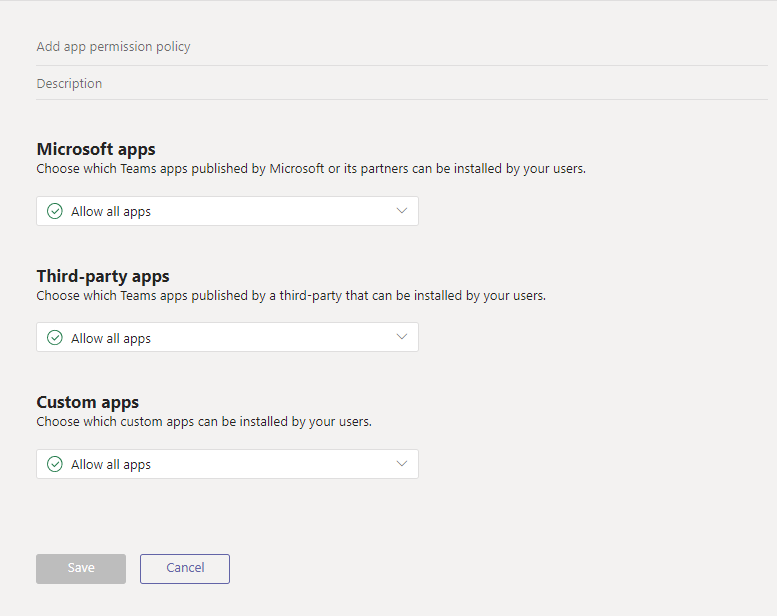
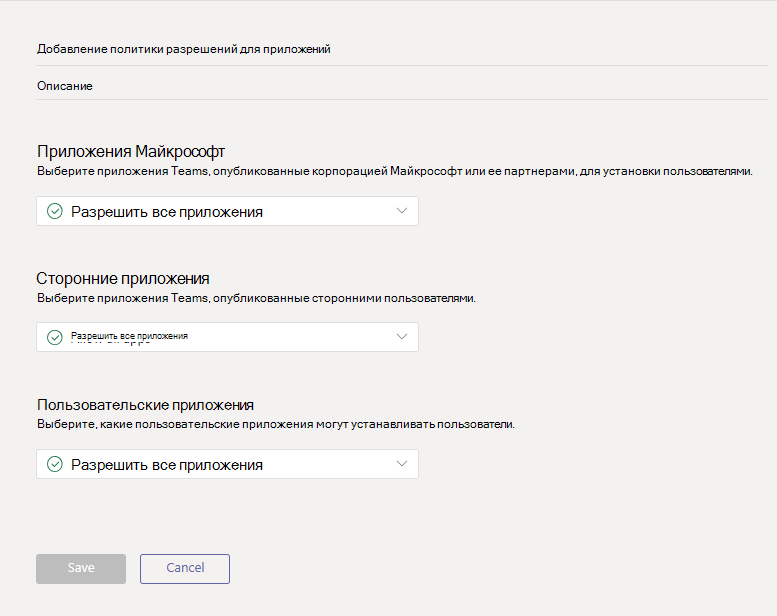
commit translated contents

diff --git a/Teams/class-insights.md b/Teams/class-insights.md
@@ -1,5 +1,5 @@
 ---
-title: Руководство для ИТ-администраторов по Insights в Teams для образования
+title: Руководство для ИТ-администраторов по Insights в Microsoft Teams для образования
 author: MicrosoftHeidi
 ms.author: heidip
 manager: serdars
@@ -16,109 +16,211 @@ ms.collection:
 - M365-collaboration
 appliesto:
 - Microsoft Teams
-ms.openlocfilehash: b63ea1a1a09a55d9a51fb2a110c024960f23f6f4
-ms.sourcegitcommit: beaaee10019f4eda746f348888a4a3c2aaa6f196
+ms.openlocfilehash: cd60e20d4218c9deaca84974b890280f942fe1be
+ms.sourcegitcommit: 086d27c9381fc1f1c6523d4c48dea275dea917b7
 ms.translationtype: HT
 ms.contentlocale: ru-RU
-ms.lasthandoff: 10/30/2020
-ms.locfileid: "48803527"
+ms.lasthandoff: 01/26/2021
+ms.locfileid: "49986395"
 ---
-# <a name="it-admin-guide-to-insights-in-teams-for-education"></a>Руководство для ИТ-администраторов по Insights в Teams для образования
+# <a name="it-admin-guide-to-education-insights-in-microsoft-teams"></a>Руководство для ИТ-администраторов по Insights в Microsoft Teams для образования
 
-Благодаря Insights в Microsoft Teams для образования преподаватели и руководители могут получать доступ к данным аналитики о вовлеченности учащихся в цифровое пространство, о связанной с заданиями рабочей нагрузке, об оценках, коммуникации и т. д. В основе Insights лежат этические принципы, где на первом месте находятся преподаватели и учащиеся, соблюдаются стандарты конфиденциальности и обеспечивается постоянное соблюдение требований для вашего учебного заведения.
+В этом документе описаны действия, необходимые, чтобы начать работу с данными аналитики Insights для образования в Microsoft Teams и помочь преподавателям и руководителям учебных заведений освоить платформу и пользоваться приложением.
 
-Средство Insights активировано в планах Office 365 для образования A1, A3 и A5.
+## <a name="overview"></a>Обзор
+**Каждый учащийся обладает неповторимым набором знаний, навыков и голосом.**<br/>
+**Средство Insights поможет вам лучше узнать учащихся и реагировать на их нужды.**
+
+Insights анализирует прогресс и действия учащихся на занятиях в реальном времени. Благодаря наглядным иллюстрациям персонал школы сможет легко и удобно наблюдать за успехами учащихся. Для преподавателей и лидеров образовательных учреждений доступны актуальные и надежные данные, помогающие принимать обоснованные решения о командах класса. Руководствуясь этими данными, преподаватели получат все необходимые сведения, чтобы отвечать на эмоциональные, социальные и образовательные нужды учеников.  
+
+Зная о том, какие стратегии подходят для работы с учащимися лучше всего, сотрудники школы смогут направить свою энергию на достижение оптимальных результатов. Insights предоставляет своевременные данные, позволяя преподавателям и лидерам образовательных учреждений сосредоточить энергию и силы на улучшении среды обучения, росте успехов и благополучия учащихся. 
+
+## <a name="who-uses-insights"></a>Кто пользуется Insights?
+
+### <a name="educators"></a>Преподаватели
+Преподаватель — это любое лицо, руководящее командой класса. К преподавателям относятся учителя, лекторы и профессора. 
+
+Преподаватели получают доступ к Insights на уровне класса. Они видят действия учащихся в своем классе, но не могут просматривать данные других классов. Insights помогает преподавателям лучше понять своих учеников и помогать им.
+
+Для работы с Insights нет предварительных требований, и преподавателям нужно всего лишь добавить Insights на левую панель приложений для каждого класса в Teams.
+
+Преподаватели идентифицируются по соответствующим лицензиям. Чтобы просматривать данные в Insights, необходимо обладать лицензией преподавателя и быть владельцем команды класса.
+
+### <a name="education-leaders"></a>Лидеры образовательных учреждений
+К лидерам образовательных учреждений относятся все роли в учреждении, чьи обязанности требуют доступа к организационному ракурсу для просмотра уровня вовлеченности учащихся, их успехов, самочувствия и т. д. Преподаватели также могут быть лидерами образовательных учреждений — например, если они являются руководителями учебного направления и владеют командой класса, то для работы им также требуются дополнительные ракурсы. 
+
+К лидерам образовательных учреждений могут относиться научные сотрудники, главы отделений, руководители округа, школьные директора, старшие преподаватели, консультанты, руководители направлений, директора программ, социальные работники и психологи.
+
+Лидеры образовательных учреждений имеют доступ к организационному ракурсу в зависимости от разрешений, выданных ИТ-администратором. Например, администраторы школьного округа могут просматривать все школы, к которым у них есть доступ. В то же время директору или школьному инспектору доступны только отметки и классы их собственной школы. 
+
+Если инспектор также преподает, то он считается одновременно преподавателем и лидером образовательного учреждения и имеет доступ к обоим ракурсам Insights (для преподавателей и лидеров образовательных учреждений). Так Insights помогает лидерам образовательных учреждений поддерживать работу преподавателей и учащихся. На организационном уровне ИТ-администратору нужно подключить систему данных об учащихся и назначить каждой роли разрешения на доступ к соответствующим школам и отделениям.
+
+Лидеры образовательных учреждений имеют преподавательские лицензии, и у них должны быть *явные разрешения* от глобального ИТ-администратора на просмотр отчетов Insights своей организации.
+
 
 > [!NOTE]
-> Руководство по использованию Insights для преподавателей представлено здесь: [Руководство для преподавателей по Insights в Microsoft Teams](https://support.microsoft.com/article/27b56255-90c0-47aa-bac3-1c9f50157181).
-
-## <a name="use-insights"></a>Использование Insights
-
-### <a name="user-types"></a>Типы пользователей
-- **Учащиеся** идентифицируются по их лицензиям и  _не имеют доступа_ к вкладке Insights (даже если являются владельцами команды). 
-- **Преподаватели** идентифицируются по соответствующим лицензиям. Чтобы добавить и просматривать данные на вкладке "Insights", необходимо обладать лицензией преподавателя и быть владельцем группы класса. 
-- **Руководители** также идентифицируются по лицензии преподавателя, но при этом они должны получить явные разрешения от глобального ИТ-администратора на просмотр отчетов в приложении Insights.
-- У гостевых учетных записей _нет_ доступа к Insights.
-
-### <a name="entry-points"></a>Точки входа
-Преподаватели и руководители имеют различные точки входа, где они могут обнаруживать и использовать Insights.
-
-**Преподаватели** могут использовать следующие две точки входа:
-- [Вкладки](https://support.microsoft.com/article/27b56255-90c0-47aa-bac3-1c9f50157181) — аналитика для каждого принадлежащего им класса доступна на вкладке, добавляемой из верхнего меню навигации. Средство Insights отображает данные об активности из всех каналов команды класса, но его можно добавить в виде вкладки только в общедоступные каналы. На вкладке отображаются сведения о действиях всех участников команды класса, не являющихся ее владельцами (включая преподавателей, не являющихся владельцами команды).
-- [Личное приложение](https://support.microsoft.com/article/747fd8d9-00b0-43e6-bacc-a1bf030b1867) — обзор всех активных классов доступен на панели приложения Teams слева.
-
-**Руководители** могут использовать Insights в качестве [личного приложения](https://support.microsoft.com/article/8738d1b1-4e1c-49bd-9e8d-b5292474c347).
-
-### <a name="manage-setup-policy"></a>Управление политикой настройки
-Администратор может использовать [политику настройки приложения](https://docs.microsoft.com/microsoftteams/teams-app-setup-policies), чтобы по умолчанию установить Insights для преподавателей и руководителей при запуске ими приложения Teams.
-Используя эту политику, вы можете настроить Teams на отображение средства Insights и закрепить его на панели приложений.
-
-> [!TIP]
-> Сведения о политиках Teams и пакетах политик для образования см. в статье [Политики и пакеты политик Teams для образования](https://docs.microsoft.com/microsoftteams/policy-packages-edu).
+> **Об учащихся:**
+>
+> Insights собирает данные о действиях учащихся в Teams.
+>
+> Учащиеся — это члены команды класса в Teams. Они имеют соответствующую лицензию и  **не обладают доступом** к приложению или вкладке Insights (даже если они являются владельцами команды).
+>
+> Гости *не могут* считаться учащимися. 
 
 
 
-## <a name="compliance"></a>Соответствие требованиям
+## <a name="where-do-users-find-insights"></a>Как пользователям получить доступ к Insights?
+Преподаватели и лидеры образовательных учреждений могут получить доступ к Insights различными способами. 
 
-Insights отвечает самым строгим требованиям отрасли и классифицируется как служба уровня C на платформе соответствия требованиям Office 365.
+### <a name="educators"></a>Преподаватели
+Преподаватели могут воспользоваться следующими двумя способами:
+
+*   [Личное приложение](https://support.microsoft.com/office/747fd8d9-00b0-43e6-bacc-a1bf030b1867) — обзор всех активных классов доступен на левой панели приложений Teams. Возможна детализация до данных класса.
+*   [Вкладки](https://support.microsoft.com/office/1386d1b4-3641-4a23-9b9c-0c6c774c2b6c) — данные Insights для конкретных классов, которыми владеют преподаватели, доступны на вкладке в верхнем навигационном меню команды класса. Эта вкладка дает преподавателю прямой доступ к необходимым данным для просмотра в контексте, когда преподаватель находится в этом классе в Teams. 
+
+Средство Insights отображает данные об активности из всех каналов команды класса, но его можно добавить в виде вкладки только в общедоступные каналы. На вкладке отображаются сведения о действиях всех участников команды класса, не являющихся ее владельцами (включая преподавателей, не являющихся владельцами команды класса).
+
+В обоих ракурсах преподаватель обладает доступом к данным класса. В персональном приложении преподаватель должен выполнить детализацию до уровня класса, а затем получить непосредственный доступ к данным класса на вкладке.
+
+Если преподаватель является владельцем команды класса, то средство Insights на уровне класса доступно без вмешательства ИТ-администратора.
+
+### <a name="education-leaders"></a>Лидеры образовательных учреждений
+Лидеры образовательных учреждений могут пользоваться Insights в качестве персонального приложения, доступного на левой панели приложений Teams.
+
+На организационном уровне ИТ-администратору нужно подключить систему данных об учащихся и назначить каждой роли разрешения на доступ к соответствующим школам и отделениям.
+
+Например, директор видит только классы в собственной школе, а руководитель отделения — только классы в своем отделении. Сведения об учащихся собираются на уровне класса, отделения, школы и округа, и мы предоставляем аналитические данные на каждом из этих уровней (в зависимости от разрешений конкретного пользователя). Как преподаватели, так и лидеры образовательных учреждений могут увеличить масштаб и просмотреть данные отдельных учащихся.
+
+**Добавление приложения Insights в Teams:**
+* Щелкните “**…**” на панели приложений.
+* Найдите и выберите **Insights**.
+* Откроется экран с описанием. Нажмите **Добавить**.
+
+:::image type="content" source="media/insights-add-personal-app.png" alt-text="Добавление Insights в Teams":::
+
+* Щелкните правой кнопкой мыши значок Insights и нажмите **Закрепить**.
+
+:::image type="content" source="media/insights-pin-app.png" alt-text="Закрепление приложения Insights":::
+
+## <a name="when-is-insights-used"></a>Когда используется Insights? 
+Средство Insights помогает ученикам и преподавателям **в процессе учебы**. Благодаря отслеживанию показателей по нескольким категориям в реальном времени Insights поддерживает непрерывный цикл определения, анализа, обсуждения и принятия решений в школьных сообществах.
+*   **Определяйте**, как и когда учащиеся работают с преподавателями, материалами курса и сверстниками и выполняют задания. 
+*   **Анализируйте**, как входные данные помогают учащимся добиться успеха, выявляйте области роста и слабые места, требующие вмешательства.
+*   **Обсуждайте** полученные данные с учащимися и работниками школы, чтобы построить надежные отношения, задать цели, провести самопроверку, наладить сотрудничество и улучшить результаты.
+*   **Принимайте решения** для своевременного вмешательства, давайте отзывы о проблемных ситуациях, корректируйте стратегии обучения и выясняйте, где требуется дополнительная помощь.
+
+:::image type="content" source="media/insights-learning-cycle.png" alt-text="Средство Insights помогает ученикам и преподавателям в процессе учебы":::
+
+## <a name="how-insights-works"></a>Как работает Insights?
+Средство Insights собирает всесторонние аналитические данные, чтобы помочь преподавателям добиться лучших результатов в учебе. Это возможно благодаря анализу действий учащихся в Teams и дополнительному использованию системы данных об учащихся (SIS), помогающей классифицировать полученные сведения и узнать их контекст. 
+
+Перед внедрением Insights в учебном заведении обратите внимание на то, как работает Insights, как мы соблюдаем этические требования по работе с данными, а также какие вам требуются лицензии.
+
+### <a name="data-collection"></a>Сбор данных
+Insights собирает данные о действиях учащихся и преподавателей в Teams. Данные гостей не собираются.
+
+Insights *не* отображает данные о преподавателях. Анализ данных позволяет получить ценные сведения, которые помогают улучшить качество обучения и образования.
+
+В настоящее время данные собираются из следующих областей в командах классов:
+
+| Компонент Teams   | Собираемые данные |
+|-------------------|-----------------------------|
+| **Задания** | Открытие, сдача и оценка работ.|
+| **Активность на канале** |  Посещение канала, создание записи, отправка ответов на сообщения и добавление отметок "Нравится" (за исключением содержимого чата).|
+| **Файлы** |   Отправка, скачивание, просмотр, изменение и комментирование файлов, а также предоставление доступа к ним (за исключением содержимого файлов).|
+| **Собрания** |    Посещаемость (за исключением содержимого собраний).|
+
+> [!NOTE]
+> Большая часть собранных сведений отображается в Insights через несколько минут. Данные о посещении собраний классов (собраний, относящихся к одному или нескольким каналам классов) отображаются через несколько часов после окончания собрания — обычно в течение 24 часов.
+
+### <a name="privacy-and-security"></a>Конфиденциальность и безопасность
+Информация, собираемая и отображаемая в Insights, отвечает требованиям [более чем 90 нормативных и отраслевых стандартов](https://docs.microsoft.com/compliance/regulatory/offering-home), включая [GDPR](https://docs.microsoft.com/compliance/regulatory/gdpr) и [Закон о правах семьи на образование и неприкосновенность частной жизни (FERPA)](https://docs.microsoft.com/compliance/regulatory/offering-ferpa), обеспечивающих безопасность учащихся и детей, а также требованиям других подобных нормативных актов, регулирующих обеспечение конфиденциальности.
+
+Данные принадлежат учебному заведению, и Майкрософт лишь собирает и хранит их. Сотрудники Майкрософт не имеют доступа к данным и не могут просматривать их, кроме как для доступа под наблюдением, осуществляемого для поддержания работы сервиса — например, для восстановления данных.
 
 > [!NOTE]
 > Дополнительные сведения о том, как Майкрософт защищает ваши данные, см. в [Центре управления безопасностью (Майкрософт)](https://www.microsoft.com/trust-center).
 
-## <a name="privacy"></a>Конфиденциальность
-
-Информация, собираемая и отображаемая в Insights, отвечает требованиям более чем 90 нормативных и отраслевых стандартов, включая GDPR и Закон о правах семьи на образование и неприкосновенность частной жизни (FERPA), обеспечивающих безопасность учащихся и детей, а также требованиям других подобных нормативных актов, регулирующих обеспечение конфиденциальности. ИТ-администраторам важно понимать, что информацию, собранную для каждого учащегося, необходимо использовать исключительно в контексте класса, чтобы помочь преподавателям и руководителям следить за поведением учащихся. Собирается информация о значимых действиях, связанных с обучением, например посещаемости, отправке сообщений, отправке ответов на сообщения одноклассников, работе над заданиями, редактировании файлов и т. д. Например, мы не показываем информацию о частных чатах и входе в Teams.
-
-Наша цель — помочь преподавателям анализировать вовлеченность учащихся и узнать больше об их действиях. Активность в классе можно свести к действиям на уровне учащегося, но Microsoft Teams не присваивает им положительные или отрицательные значения и не дает возможность оценивать деятельность отдельных учащихся по заданным условиям. Например, информация в Insights может показать преподавателю, что учащийся не проявлял активности в средстве в течение определенного времени или вовремя выполнил все свои задания за прошлую неделю. Преподаватель по-прежнему несет ответственность за общение с учащимся и его родителями или опекунами с целью определить основную причину его действий или бездействия.
-
-## <a name="data-collection"></a>Сбор данных
-
-- Мы собираем данные для Insights, если для клиента включен компонент Education Analytics. Данные берутся из информации о действиях в Teams, а затем на их основе формируются аналитические сведения для преподавания и обучения.
-- Данные гостей _не_ собираются в Insights.
-- По умолчанию компонент Education Analytics **включен** .
-
-В настоящее время эти данные берутся из следующих категорий действий учащихся и преподавателей в группах классов:
-
-|Компонент Teams  |Собираемые данные  |
-|-----------------|------------------------|------------------------|
-|Задания |Открытие, сдача и оценка работ. |
-|Активность на канале |Посещение канала, создание записи, отправка ответов на сообщения и добавление отметок "Нравится" (за исключением содержимого чата). |
-|Файлы |Отправка, скачивание, просмотр, изменение и комментирование файлов, а также предоставление доступа к ним (за исключением файлов). |
-|Собрания |Посещаемость (за исключением содержимого собраний). |
-
-## <a name="data-location"></a>Расположение данных
-
-Данные Insights для клиентов, расположенных в Европе, хранятся на европейских серверах. Данные для клиентов из США хранятся на серверах в Соединенных Штатах. Если вы используете Insights, а ваш клиент Office 365 находится за пределами Европы или США, ваши данные будут храниться в соответствующем географическом регионе.
-
-## <a name="performance-and-reliability"></a>Производительность и надежность
-
-Средство Insights предназначено для обработки больших объемов данных о действиях в Teams с оптимальной производительностью и надежностью.
+### <a name="performance-and-reliability"></a>Производительность и надежность
+Средство Insights предназначено для обработки больших объемов данных, собранных в Teams, с оптимальной производительностью и надежностью. Мы не можем гарантировать абсолютную доступность, но предпринимаем все усилия, чтобы приблизиться к этой цели.
 
 Сбор данных выполняется на отдельных серверах независимо от того, установлена ли в Teams вкладка Insights. Вкладка или личное приложение Insights не влияет на производительность приложения и пропускную способность сети для преподавателей и учащихся, использующих другие функции Teams.
 
 > [!TIP]
-> Сведения об использовании Teams для образования при низкой пропускной способности см. в статье [Помощь в ситуациях с низкой пропускной способностью для Teams для образовательных учреждений](edu-remote-low-bandwidth.md).
+> Чтобы узнать больше, см. статью [Помощь в ситуациях с низкой пропускной способностью для Teams для образовательных учреждений](edu-remote-low-bandwidth.md).
 
-## <a name="how-to-delete-your-data"></a>Удаление данных
+### <a name="data-storage"></a>Хранение данных
+В настоящее время средство Insights развернуто в Европе и Соединенных Штатах. Данные Insights для пользователей, расположенных в Европе, хранятся на европейских серверах. Данные для пользователей в США и Австралии хранятся на серверах в Соединенных Штатах. Данные для пользователей, находящихся за пределами Европы, Австралии и Соединенных Штатов, хранятся в одном из наших географических регионов. 
 
-В образовательных службах хранятся данные о действиях учащихся и преподавателей, выполненных в контексте группы класса. Эти данные считаются смешанными, поэтому не удаляются из службы автоматически при удалении учетных записей учащихся и преподавателей из организации.
+### <a name="using-data-ethically"></a>Этическое использование данных
+Мы твердо привержены принципам этического и ответственного использования данных. Insights следует принципам Майкрософт по ответственной работе с данными и ИИ. Это означает, что мы не скрываем, как используются данные, и ставим интересы учащихся и преподавателей превыше всего.  Мы следуем высочайшим стандартам безопасности и конфиденциальности, чтобы обеспечить надежность и точность работы и соблюдать требования вашего учебного заведения.
+
+Корпорация Майкрософт разработала Insights с нуля, чтобы обеспечить безопасность данных. Мы осведомлены о том, что использование этих данных требует тщательной защиты, и заботимся о ваших данных и конфиденциальности отдельных лиц. 
+
+#### <a name="data-to-support-learning"></a>Данные для поддержки обучения
+Insights выводит обучение и цифровые занятия учащихся на новый уровень. Данные помогают в учебном процессе и демонстрируют уровень работы учащегося на платформе цифрового обучения. Хотя у вас есть возможность выполнить детализацию работы в классе до уровня отдельных участников, Майкрософт **не присваивает действиям положительные и отрицательные оценки**. Цель собираемых данных состоит в поддержке учащихся и преподавателей для достижения наилучших результатов.
+
+Преподаватели знают и понимают своих учащихся лучше, чем кто-либо еще. Сведения в Insights служат для того, чтобы помочь им **поддержать учащихся** в ходе цифрового обучения. При этом достигается тот же эффект, как и от данных, полученных при работе лицом к лицу. Например, предположим, что учащийся не проявлял активность в определенный период или вовремя не выполнил все задания на прошлой неделе. Преподаватель получит всю нужную информацию, чтобы подтолкнуть работу в нужном направлении или присмотреться к учащемуся внимательнее. Преподаватель по-прежнему несет ответственность за общение с учащимся и его родителями или опекунами с целью определить основную причину его действий или бездействия.
+
+Средство Insights создано для помощи как учащимся, так и преподавателям в работе с цифровыми средствами обучения. Insights **не собирает напрямую данные о преподавателях**. Помимо данных об отдельных учащихся, Insights отображает конкретным преподавателям сводку о действиях и результатах учащихся и тем самым помогает лидерам образовательных учреждений предоставлять помощь как ученикам, так и преподавателям.
+
+### <a name="licensing"></a>Лицензирование
+Чтобы получить доступ к Insights, пользователи должны обладать лицензиями преподавателя A1, A3 или A5 для Microsoft 365.
+
+## <a name="student-information-system-sis-integration"></a>Интеграция с системой данных об учащихся (SIS)
+Чем больше данных вводится в Insights, тем лучше преподаватели могут поддерживать своих учеников, а руководители образовательных учреждений — поддерживать преподавателей.
+
+Чтобы обеспечить аналитику на уровне организации, нужно использовать [School Data Sync (SDS)](https://docs.microsoft.com/SchoolDataSync) для подключения к системе данных об учащихся (SIS), чтобы средство Insights правильно сопоставило иерархическую структуру системы образования. 
+
+Для просмотра данных Insights на уровне класса в качестве преподавателя подобные действия *не требуются*, так как используется структура классов и разрешений Teams.
+
+Чтобы узнать больше, см. [Синхронизация системы данных об учащихся (SIS) с Education Insights](education-insights-sis-data-sync.md).
+
+## <a name="manage-permissions"></a>Управление разрешениями
+Вам нужно предоставить разрешения лидерам образовательных учреждений, руководителям округа, школьным директорам, старшим преподавателям, консультантам, руководителям областей обучения, директорам программ, социальным работникам и психологам. Преподаватели получают разрешение автоматически, если они владеют командой класса.
 
 > [!NOTE]
-> Удаление данных отрицательно влияет на способность Insights анализировать активность группы класса с течением времени.
+> Давайте разрешение только тем лидерам образовательных учреждений, которым они нужны, и только в тех командах, за которые они ответственны. Если вы не уверены, требуется ли пользователю разрешение для конкретной организации, обратитесь к специалистам по конфиденциальности вашего учебного заведения, например к юристам или в отдел кадров.
 
-- Отправьте запрос в службу поддержки на странице [https://edusupport.microsoft.com/support](https://edusupport.microsoft.com/support). В запросе необходимо ясно изложить свое желание удалить DSR в соответствии с GDPR и указать идентификатор объекта пользователя, который требуется удалить. Ограничить набор данных или период времени для удаления невозможно.
-- После отправки запрос будет стоять в очереди в течение недели для соблюдения требований политики к минимальному сроку хранения. В это время вы можете отменить операцию.
-- Спустя одну неделю команда Education Analytics удалит из службы все данные, связанные с указанным идентификатором пользователя. Служба поддержки Майкрософт отслеживает запрос ICM и сообщит вам о завершении удаления в течение 28 дней.
+## <a name="manage-the-setup-policy"></a>Управление политикой настройки
+ИТ-администратор может использовать политику настройки приложения, чтобы по умолчанию установить Insights для преподавателей и руководителей при запуске ими приложения Teams. Используя эту политику, вы можете настроить Teams на отображение средства Insights и закрепить его на панели приложений.
 
-## <a name="turn-insights-off-and-on-using-school-data-sync-sds"></a>Включение и выключение Insights с помощью School Data Sync (SDS)
+Если преподавателю требуется непосредственный доступ к каждому классу, можно вручную разместить вкладку Insights в верхнем меню навигации. Эта вкладка дает преподавателю прямой доступ к необходимым данным для просмотра в контексте, когда преподаватель находится в этом классе в Teams. 
 
-School Data Sync (SDS) помогает автоматизировать импорт данных из информационной системы учебного заведения (SIS) и их синхронизацию с Office 365.
+В обоих ракурсах преподаватель обладает доступом к данным класса. В персональном приложении преподаватель должен выполнить детализацию до уровня класса, а затем получить непосредственный доступ к данным класса на вкладке.
 
-Для использования Insights не требуется применять SDS. Однако вы можете в любой момент отказаться от использования Education Analytics, отключив соответствующий параметр в центре администрирования SDS (раздел **Параметры** > **Управление Education Analytics** ).
+> [!TIP]
+> Чтобы узнать больше, см. [Политики и пакеты политик Teams для образования](https://docs.microsoft.com/microsoftteams/policy-packages-edu).
 
-:::image type="content" source="media/class-insights-on-off.png" alt-text="Выключатель средства Insights.":::
+## <a name="encourage-the-adoption-of-insights"></a>Поощряйте внедрение Insights
+Позаботьтесь о том, чтобы ваше учебное заведение с радостью пользовалось Insights.
 
-По умолчанию компонент Education Analytics, а значит и Insights, включен. При отказе от использования Analytics все данные, собранные для вкладки Insights, будут удалены. Если снова включить Analytics, сбор данных возобновится с момента включения.
+Поделитесь с **преподавателями** следующими материалами:
+*   Дополнительные сведения см. на [странице поддержки Insights](https://support.microsoft.com/office/27b56255-90c0-47aa-bac3-1c9f50157181).
+* Быстро начните работу — [загрузите 1-страничный PDF-документ об Insights](https://aka.ms/insights/start).
+*   Прочитайте [полное руководство в формате PDF](https://aka.ms/insights/guide).
+*   Просмотрите [пошаговые руководства](https://aka.ms/insights/resources) о том, как пользоваться Insights.
+*   Пройдите обучение на [бесплатном курсе по Insights](https://aka.ms/insights/course) в Центре преподавателей (Майкрософт)
+*   Наконец, прочитайте [этот блог](https://techcommunity.microsoft.com/t5/education-blog/6-ways-to-be-insight-ful-and-support-student-engagement/ba-p/1903091), посвященный Insights.
 
-## <a name="additional-resources"></a>Дополнительные ресурсы
-- [Руководство для преподавателя по Insights](https://support.microsoft.com/office/27b56255-90c0-47aa-bac3-1c9f50157181)
+Материалы для **лидеров образовательных учреждений** будут опубликованы в ближайшее время.
+
+## <a name="turn-insights-off-or-on"></a>Включение и выключение Insights
+По умолчанию средство Insights включено. При отказе от использования мы *удаляем все собранные Insights данные*. Снова включите Insights, и мы начнем собирать данные с момента активации.
+
+### <a name="turn-insights-off-using-school-data-sync-sds"></a>Выключение Insights с помощью School Data Sync (SDS)
+School Data Sync (SDS) помогает автоматизировать импорт данных из системы данных об учащихся (SIS) и их синхронизацию с Teams.
+
+Для использования Insights *не требуется* применять SDS. Однако вы можете отказаться от использования Insights в любое время. Откройте центр администрирования SDS и перейдите в меню **Параметры** > **Управление Education Insights**. Чтобы отключить Insights, выключите “**Сбор данных для Insights**”. 
+
+:::image type="content" source="media/insights-sds-settings.png" alt-text="Выключатель средства Insights.":::
+
+### <a name="turn-insights-on"></a>Включение Insights
+Если вы выключили Insights, его можно быстро включить. Откройте центр администрирования SDS и перейдите в меню **Параметры** > **Управление Education Insights**. Чтобы включить Insights, включите “**Сбор данных для Insights**”
+
+### <a name="how-to-delete-your-data"></a>Удаление данных
+Insights хранит данные о действиях учащихся и преподавателей, выполненные в контексте команды класса. Эти данные считаются смешанными, поэтому не удаляются из службы автоматически при удалении учетных записей учащихся и преподавателей из организации.
+Примечание. Удаление данных отрицательно влияет на способность Insights анализировать активность команды класса с течением времени.
+* [Отправьте запрос в службу поддержки](https://edusupport.microsoft.com/support). В запросе необходимо ясно изложить свое желание удалить DSR в соответствии с GDPR и указать идентификатор объекта пользователя, который требуется удалить. Ограничить набор данных или период времени для удаления невозможно.
+*   После отправки запрос будет стоять в очереди в течение недели для соблюдения требований политики к минимальному сроку хранения. В это время вы можете отменить операцию.
+*   Спустя одну неделю команда Education Insights удалит из службы все данные, связанные с указанным идентификатором пользователя. Служба поддержки Майкрософт отслеживает запрос и сообщит вам о завершении удаления в течение 28 дней.
